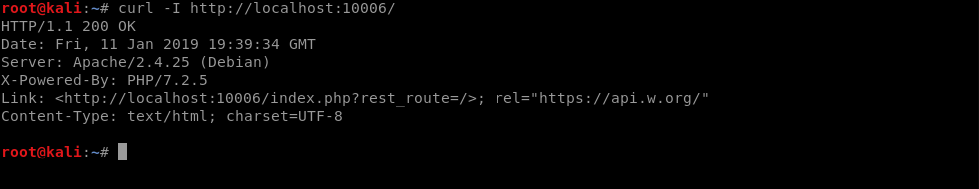
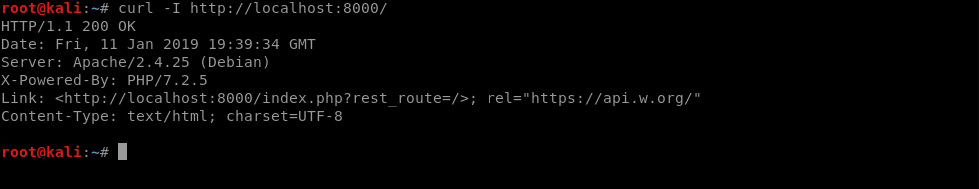
fix: revert misconfig-wordpress port changes

Changed region(s): [[0.2145, 0.4762, 0.7354, 0.5556], [0.3371, 0.0, 0.3984, 0.0794]]

diff --git a/owasp-top10-2017-apps/a6/misconfig-wordpress/README.md b/owasp-top10-2017-apps/a6/misconfig-wordpress/README.md
@@ -33,7 +33,7 @@ cd secDevLabs/owasp-top10-2017-apps/a6/misconfig-wordpress
 make install
 ```
 
-Then simply visit [localhost:10006][App] ! 😆
+Then simply visit [localhost:8000][App] ! 😆
 
 ## Get to know the app 📄
 
@@ -49,7 +49,7 @@ Now that you know the purpose of this app, what could go wrong? The following se
 
 #### Verbose error message allows for username enumeration
 
-It's possible to reach the site through the HTTP port 10006, as shown by the image below:
+It's possible to reach the site through the HTTP port 8000, as shown by the image below:
 
 <p align="center">
     <img src="images/banner.png"/>
@@ -120,7 +120,7 @@ brew install wpscan
 And then use this command to start a new simple scan:
 
 ```sh
-wpscan -u localhost:10006
+wpscan -u localhost:8000
 ```
 
  <p align="center">
@@ -185,7 +185,7 @@ brew install nikto
 Then scan the web app using:
 
 ```sh
-nikto -h http://localhost:10006/
+nikto -h http://localhost:8000/
 ```
 
  <p align="center">
@@ -221,7 +221,7 @@ We encourage you to contribute to SecDevLabs! Please check out the [Contributing
 
 [Docker Install]:  https://docs.docker.com/install/
 [Docker Compose Install]: https://docs.docker.com/compose/install/
-[App]: http://localhost:10006
+[App]: http://localhost:8000
 [wordlist]: https://github.com/danielmiessler/SecLists/blob/master/Passwords/UserPassCombo-Jay.txt
 [wpscan]:https://wpscan.org/
 [malicious code]: https://www.exploit-db.com/exploits/44949
